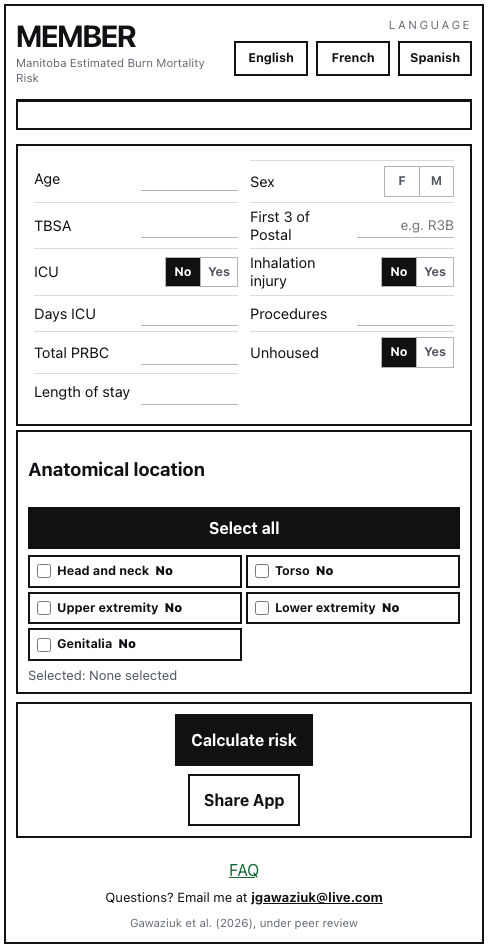
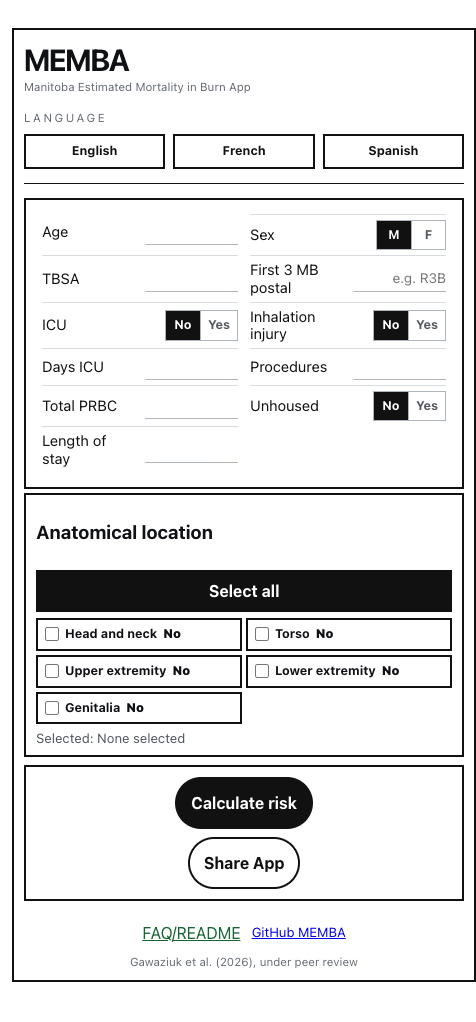
Update MEMBA app branding and figure states

Changed region(s): [[0.0, 0.0, 1.0, 1.0]]

diff --git a/src/App.tsx b/src/App.tsx
@@ -69,16 +69,7 @@ type LocaleStrings = {
 }
 
 const githubAppUrl = 'https://github.com/jpg123/burn-mortality-MEMBER'
-const readmeItems = [
-  { question: 'What is MEMBER?', answer: 'MEMBER means Manitoba Estimated Burn Mortality Risk. It is a research application that displays an estimated inpatient burn mortality risk from a fitted logistic-regression model.' },
-  { question: 'How is the estimated risk calculated?', answer: 'The app combines the entered patient information, including age, burn size, inhalation injury, intensive care, hospital course and anatomical location. The fitted model gives each piece of information a weight based on its relationship with mortality in this study, combines the weighted information and converts the result into an estimated percentage. Blank numeric fields are replaced with the median value from the training cohort.' },
-  { question: 'Which information is used?', answer: 'The model uses age, sex, FSA-derived rurality, ICU use, housing status, TBSA, length of stay, procedures, total PRBC units, ICU days, inhalation injury and anatomical location. Etiology is not included.' },
-  { question: 'How are missing transfusion values handled?', answer: 'Total PRBC is recorded as the number of packed red blood cell units. Missing values are treated as zero because most patients did not receive transfusion. A separate transfusion yes/no variable is not used.' },
-  { question: 'How does sharing work?', answer: 'Share App opens MEMBER at rest in English. Share Data shares the selected figure example. iPhone and iPad can use Messages or iMessage. On Android, native sharing depends on the browser and device; if unavailable, the link is copied for pasting into a message.' },
-  { question: 'What languages are available?', answer: 'The interface can be selected in English, French or Spanish. MEMBER remains the app name in every language.' },
-  { question: 'What validation has been performed?', answer: 'The manuscript reports nested stratified cross-validation as internal validation within this cohort. External validation at another burn centre remains outstanding.' },
-  { question: 'Where is the source information?', answer: 'The complete project README and application source are available in the MEMBER GitHub repository.' },
-]
+const githubReadmeUrl = `${githubAppUrl}/blob/main/README.md`
 
 function deriveRurality(fsa: string) {
   const normalized = fsa.replace(/\s/g, '').toUpperCase().slice(0, 3)
@@ -123,7 +114,7 @@ function modelProbability(values: Record<string, string>, selectedLocations: Loc
 
 const localeStrings: Record<Language, LocaleStrings> = {
   en: {
-    appTitle: 'Burn Mortality App',
+    appTitle: 'Manitoba Estimated Mortality in Burn App',
     appEyebrow: 'Research application',
     languageLabel: 'Language',
     languages: { en: 'English', fr: 'French', es: 'Spanish' },
@@ -175,13 +166,13 @@ const localeStrings: Record<Language, LocaleStrings> = {
       { question: 'How is the estimated risk calculated?', answer: 'The app combines the patient information entered, including age, burn size, inhalation injury, intensive care, hospital course and anatomical location. The fitted model gives each piece of information a weight based on its relationship with mortality in this study, combines the weighted information and converts the result into an estimated percentage. Blank numeric fields are replaced with the median value from the training cohort.' },
       { question: 'Which inputs change the current risk?', answer: 'Age, sex, FSA-derived rurality, TBSA, inhalation injury, anatomical locations, ICU use, ICU days, length of stay, procedures, transfusion and housing status are used by the model.' },
       { question: 'Can TBSA include a decimal?', answer: 'Yes. Enter one decimal place, such as 12.3%. The model uses the entered TBSA value.' },
-      { question: 'What does Share App send?', answer: 'Share App sends a link that opens MEMBER at rest in English. Share Data sends the selected figure example. On iPhone or iPad, the native share sheet can send the link through Messages or iMessage. On Android, native sharing depends on the browser and device; if it is unavailable, the app copies the link so it can be pasted into a message.' },
+      { question: 'What does Share App send?', answer: 'Share App sends a link that opens MEMBA at rest in English. Share Data sends the selected figure example. On iPhone or iPad, the native share sheet can send the link through Messages or iMessage. On Android, native sharing depends on the browser and device; if it is unavailable, the app copies the link so it can be pasted into a message.' },
     ],
     featureLabels: {
       Age: 'Age',
       Sex: 'Sex',
       TBSA: 'TBSA',
-      FSA: 'First 3 of Postal',
+      FSA: 'First 3 MB postal',
       ICU: 'ICU',
       'Days ICU': 'Days ICU',
       Unhoused: 'Unhoused',
@@ -197,7 +188,7 @@ const localeStrings: Record<Language, LocaleStrings> = {
       'Lower extremity': 'Lower extremity',
       Genitalia: 'Genitalia',
     },
-    locationLabels: { FSA: 'First 3 of Postal', Inhalation: 'Inhalation', Rurality: 'Rurality', Mechanism: 'Mechanism', 'Anatomical location': 'Anatomical location' },
+    locationLabels: { FSA: 'First 3 MB postal', Inhalation: 'Inhalation', Rurality: 'Rurality', Mechanism: 'Mechanism', 'Anatomical location': 'Anatomical location' },
   },
   fr: {
     appTitle: 'Application de mortalité des brûlures',
@@ -252,13 +243,13 @@ const localeStrings: Record<Language, LocaleStrings> = {
       { question: 'Comment le risque estimé est-il calculé ?', answer: 'L’application combine les informations saisies sur le patient, notamment l’âge, la taille de la brûlure, la lésion par inhalation, les soins intensifs, le déroulement de l’hospitalisation et la localisation anatomique. Le modèle ajusté attribue un poids à chaque information selon sa relation avec la mortalité dans cette étude, combine ces informations pondérées et convertit le résultat en pourcentage estimé. Les champs numériques vides sont remplacés par la valeur médiane de la cohorte d’entraînement.' },
       { question: 'Quelles entrées modifient le risque actuel ?', answer: 'Les variables affichées sont traitées par le modèle de régression logistique ajusté.' },
       { question: 'La TBSA peut-elle contenir une décimale ?', answer: 'Oui. Entrez une décimale, par exemple 12,3 %. Le modèle utilise la valeur de TBSA saisie.' },
-      { question: 'Que partage le bouton Partager l’application ?', answer: 'Le bouton Partager l’application envoie un lien qui ouvre MEMBER au repos en anglais. Le bouton Partager les données envoie l’exemple illustré sélectionné. Sur iPhone ou iPad, la feuille de partage peut envoyer le lien par Messages ou iMessage. Sur Android, le partage dépend du navigateur et de l’appareil; s’il n’est pas disponible, l’application copie le lien pour qu’il soit collé dans un message.' },
+      { question: 'Que partage le bouton Partager l’application ?', answer: 'Le bouton Partager l’application envoie un lien qui ouvre MEMBA au repos en anglais. Le bouton Partager les données envoie l’exemple illustré sélectionné. Sur iPhone ou iPad, la feuille de partage peut envoyer le lien par Messages ou iMessage. Sur Android, le partage dépend du navigateur et de l’appareil; s’il n’est pas disponible, l’application copie le lien pour qu’il soit collé dans un message.' },
     ],
     featureLabels: {
       Age: 'Âge',
       Sex: 'Sexe',
       TBSA: 'TBSA',
-      FSA: 'FSA',
+      FSA: 'Code postal',
       ICU: 'USI',
       'Days ICU': 'Jours en USI',
       Unhoused: 'Sans logement',
@@ -274,7 +265,7 @@ const localeStrings: Record<Language, LocaleStrings> = {
       'Lower extremity': 'Membre inférieur',
       Genitalia: 'Génitales',
     },
-    locationLabels: { FSA: 'FSA', Inhalation: 'Inhalation', Rurality: 'Ruralité', Mechanism: 'Mécanisme', 'Anatomical location': 'Localisation anatomique' },
+    locationLabels: { FSA: 'Code postal', Inhalation: 'Inhalation', Rurality: 'Ruralité', Mechanism: 'Mécanisme', 'Anatomical location': 'Localisation anatomique' },
   },
   es: {
     appTitle: 'Aplicación de mortalidad por quemaduras',
@@ -329,7 +320,7 @@ const localeStrings: Record<Language, LocaleStrings> = {
       { question: '¿Cómo se calcula el riesgo estimado?', answer: 'La aplicación combina la información introducida sobre el paciente, incluida la edad, el tamaño de la quemadura, la lesión por inhalación, los cuidados intensivos, el curso hospitalario y la localización anatómica. El modelo ajustado asigna un peso a cada dato según su relación con la mortalidad en este estudio, combina la información ponderada y convierte el resultado en un porcentaje estimado. Los campos numéricos vacíos se reemplazan por la mediana de la cohorte de entrenamiento.' },
       { question: '¿Qué entradas cambian el riesgo actual?', answer: 'Las variables mostradas son procesadas por el modelo de regresión logística ajustado.' },
       { question: '¿TBSA puede incluir un decimal?', answer: 'Sí. Introduzca un decimal, por ejemplo 12.3 %. El modelo utiliza el valor de TBSA introducido.' },
-      { question: '¿Qué comparte Compartir aplicación?', answer: 'Compartir aplicación envía un enlace que abre MEMBER en reposo y en inglés. Compartir datos envía el ejemplo ilustrado seleccionado. En iPhone o iPad, la hoja de compartir puede enviar el enlace mediante Mensajes o iMessage. En Android, el uso compartido depende del navegador y del dispositivo; si no está disponible, la aplicación copia el enlace para pegarlo en un mensaje.' },
+      { question: '¿Qué comparte Compartir aplicación?', answer: 'Compartir aplicación envía un enlace que abre MEMBA en reposo y en inglés. Compartir datos envía el ejemplo ilustrado seleccionado. En iPhone o iPad, la hoja de compartir puede enviar el enlace mediante Mensajes o iMessage. En Android, el uso compartido depende del navegador y del dispositivo; si no está disponible, la aplicación copia el enlace para pegarlo en un mensaje.' },
     ],
     featureLabels: {
       Age: 'Edad',
@@ -358,9 +349,9 @@ const localeStrings: Record<Language, LocaleStrings> = {
 const featureRows: FeatureItem[] = [
   { label: 'Age', valueLow: '34', valueHigh: '67', scale: 'Years' },
   { label: 'Sex', valueLow: 'Female', valueHigh: 'Male', scale: 'Binary' },
-  { label: 'TBSA', valueLow: '20%', valueHigh: '50%', scale: 'Per 10 percentage points' },
+  { label: 'TBSA', valueLow: '8%', valueHigh: '50%', scale: 'Per 10 percentage points' },
   // FSA is used only to derive Rurality and is not an independent model feature.
-  { label: 'FSA', valueLow: 'R3B', valueHigh: 'R0A', scale: 'First 3 characters' },
+  { label: 'FSA', valueLow: 'R3B', valueHigh: 'R0A', scale: '3 characters' },
   { label: 'ICU', valueLow: 'No', valueHigh: 'Yes' },
   { label: 'Inhalation injury', valueLow: 'No', valueHigh: 'Yes' },
   { label: 'Days ICU', valueLow: '0', valueHigh: '9', scale: 'Days' },
@@ -383,7 +374,7 @@ const stateMeta = {
     ringSoft: 'rgba(22, 101, 52, 0.14)',
     summary: [
       ['Age', '34 years'],
-      ['TBSA', '16%'],
+      ['TBSA', '8%'],
       ['Sex', 'Female'],
       ['Rural', 'No'],
       ['Inhalation', 'No'],
@@ -426,7 +417,6 @@ function App() {
     query.get('capture') !== '1' && !window.localStorage.getItem(disclosureKey)
   ))
   const [shareStatus, setShareStatus] = useState<string | null>(null)
-  const [showFaq, setShowFaq] = useState(false)
   const [hasCalculated, setHasCalculated] = useState(() => query.has('state'))
   const [selectedLocations, setSelectedLocations] = useState<LocationOption[]>(() => {
     const requested = query.get('locations')?.split(',') ?? []
@@ -439,7 +429,7 @@ function App() {
   const [featureValues, setFeatureValues] = useState<Record<string, string>>(() =>
     Object.fromEntries(featureRows.map((item) => [
       item.label,
-      query.has('state') ? state === 'low' ? item.valueLow : item.valueHigh : '',
+      query.has('state') ? state === 'low' ? item.valueLow : item.valueHigh : item.label === 'Sex' ? 'Male' : '',
     ])),
   )
   const figureUrl = useMemo(
@@ -541,8 +531,8 @@ function App() {
         <section className="phone" aria-label={`${!hasCalculated ? strings.readyTitle : strings[locationImpact.state === 'low' ? 'lowRisk' : 'highRisk']} ${strings.riskScreenLabel}`}>
           <div className="topbar">
             <div>
-              <h1>MEMBER</h1>
-              <p className="app-name-expansion">Manitoba Estimated Burn Mortality Risk</p>
+              <h1>MEMBA</h1>
+              <p className="app-name-expansion">Manitoba Estimated Mortality in Burn App</p>
             </div>
             <div className="topbar__controls">
               <span className="topbar__eyebrow">{strings.languageLabel}</span>
@@ -560,10 +550,10 @@ function App() {
               </div>
             </div>
           </div>
-          <div className={hasCalculated ? 'hero-card' : 'hero-card hero-card--resting'} style={{ background: hasCalculated ? stateMeta[locationImpact.state].gradient : '#fff' }}>
+          {hasCalculated ? <div className="hero-card" style={{ background: stateMeta[locationImpact.state].gradient }}>
             <div className="hero-card__ambient" />
-            {hasCalculated ? <h2 className="hero-card__title">{locationImpact.state === 'low' ? strings.lowRisk : strings.highRisk}</h2> : null}
-            {hasCalculated ? <div
+            <h2 className="hero-card__title">{locationImpact.state === 'low' ? strings.lowRisk : strings.highRisk}</h2>
+            <div
               className="score-ring"
               aria-label={`${locationImpact.score} risk`}
                 style={{ ['--ring' as string]: locationImpact.riskScore === null ? '#d1d5db' : locationImpact.riskScore > 50 ? '#dc2626' : stateMeta[locationImpact.state].ring }}
@@ -572,8 +562,8 @@ function App() {
                 <span className="score-ring__value">{locationImpact.score || '—'}</span>
                 <span className="score-ring__label">{hasCalculated ? strings.scoreLabel : ''}</span>
               </div>
-            </div> : null}
-          </div>
+            </div>
+          </div> : null}
 
           <section className="feature-panel" aria-label={strings.patientData}>
             <div className="feature-list">
@@ -586,7 +576,7 @@ function App() {
                     </div>
                     {choiceFields.has(item.label) ? (
                       <div className="choice-selector" role="radiogroup" aria-label={item.label}>
-                        {(item.label === 'Sex' ? [['Female', 'F'], ['Male', 'M']] : [['', 'No'], ['Yes', 'Yes']]).map(([optionValue, optionLabel]) => (
+                        {(item.label === 'Sex' ? [['Male', 'M'], ['Female', 'F']] : [['', 'No'], ['Yes', 'Yes']]).map(([optionValue, optionLabel]) => (
                           <button
                             key={optionLabel}
                             type="button"
@@ -604,10 +594,11 @@ function App() {
                       aria-label={item.label}
                       type={numericFields.has(item.label) ? 'number' : 'text'}
                       min={numericFields.has(item.label) ? 0 : undefined}
-                      max={item.label === 'TBSA' ? 100 : undefined}
+                        max={item.label === 'TBSA' ? 100 : item.label === 'Procedures' ? 15 : undefined}
                       step={item.label === 'TBSA' ? 0.1 : numericFields.has(item.label) ? 1 : undefined}
                       maxLength={item.label === 'FSA' ? 3 : undefined}
                       placeholder={item.label === 'FSA' ? 'e.g. R3B' : undefined}
+                      title={item.label === 'FSA' ? 'Enter any Manitoba FSA, using the first 3 characters of the postal code' : undefined}
                       value={value}
                       onChange={(event) => {
                         const nextValue = item.label === 'FSA'
@@ -629,7 +620,7 @@ function App() {
             </div>
           </section>
 
-          {locationImpact.summary.length ? (
+          {hasCalculated && locationImpact.summary.length ? (
             <section className="summary-panel" aria-label={strings.selectedPatientVariables}>
               <dl className="summary-grid">
                 {locationImpact.summary.map(([label, value]) => (
@@ -669,23 +660,6 @@ function App() {
             <p className="location-panel__summary">{strings.selected}: {localizedLocationSummary}</p>
           </section>
 
-          {showFaq ? (
-            <div className="faq-modal" role="dialog" aria-modal="true" aria-label={strings.faqTitle}>
-              <div className="faq-modal__card">
-                <div className="faq-modal__header">
-                  <h3>{strings.faqTitle}</h3>
-                  <button type="button" className="faq-modal__close" aria-label="Close FAQ" onClick={() => setShowFaq(false)}>×</button>
-                </div>
-                {readmeItems.map((item) => (
-                  <details key={item.question}>
-                    <summary>{item.question}</summary>
-                    <p>{item.answer}</p>
-                  </details>
-                ))}
-              </div>
-            </div>
-          ) : null}
-
           {!hasCalculated ? (
             <section className="example-panel" aria-label={strings.patientData}>
               <button type="button" className="action-row__button" onClick={() => setHasCalculated(true)}>
@@ -716,10 +690,8 @@ function App() {
           ) : null}
 
           <section className="faq-link-panel" aria-label={strings.faqTitle}>
-            <p><button type="button" className="faq-link" onClick={() => setShowFaq(true)}>{strings.faqTitle}</button></p>
-            <p className="faq-contact">
-              {strings.faqContact} <a href={githubAppUrl} target="_blank" rel="noreferrer">GitHub MEMBER</a>
-            </p>
+            <a className="faq-link" href={githubReadmeUrl} target="_blank" rel="noreferrer">{strings.faqTitle}</a>
+            <a className="faq-contact" href={githubAppUrl} target="_blank" rel="noreferrer">GitHub MEMBA</a>
           </section>
 
           <footer className="citation-footer">{strings.citationFooter}</footer>

diff --git a/index.html b/index.html
@@ -5,7 +5,7 @@
     <meta name="viewport" content="width=device-width, initial-scale=1.0" />
     <meta name="theme-color" content="#f7f4ee" />
     <meta name="description" content="Burn mortality prediction research prototype" />
-    <title>BMP At Rest</title>
+    <title>Manitoba Estimated Mortality in Burn App (MEMBA)</title>
   </head>
   <body>
     <div id="root"></div>

diff --git a/src/App.css b/src/App.css
@@ -568,12 +568,12 @@
 }
 
 .faq-link-panel {
+  display: flex;
+  align-items: center;
+  justify-content: center;
+  gap: 0.7rem;
   margin-top: 1.25rem;
   text-align: center;
-}
-
-.faq-link-panel p {
-  margin: 0.4rem 0;
 }
 
 .faq-link {
@@ -664,7 +664,6 @@
 }
 
 .faq-contact {
-  margin: 8px 0 0;
   font-size: 0.82rem;
   line-height: 1.4;
 }
